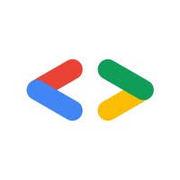
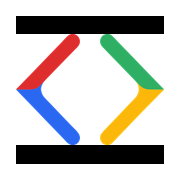
Improve motion, mobile layout, and branding

diff --git a/app/src/styles.css b/app/src/styles.css
@@ -1,31 +1,30 @@
 @layer reset, theme, base, components, utilities;
 @import "tailwindcss" source(none);
 @source "../src";
-@source "../packages/quanta/src";
-@import "@higgsfield/quanta/tailwind.css";
 
 @font-face{font-family:"Space Grotesk";src:url("../packages/quanta/src/css/theme/fonts/space-grotesk/space-grotesk-latin-ext.woff2") format("woff2");font-display:swap}
 @font-face{font-family:"IBM Plex Mono";src:url("../packages/quanta/src/css/theme/fonts/ibm-plex-mono/ibm-plex-mono-latin-ext-400.woff2") format("woff2");font-display:swap}
 
-:root{--paper:#f8f9fa;--ink:#202124;--line:#dadce0;--muted:#6f7378;--blue:#4285f4;--red:#ea4335;--yellow:#fbbc04;--green:#34a853;--gutter:clamp(20px,4.2vw,72px);font-family:"Space Grotesk",Arial,sans-serif;color:var(--ink);background:var(--paper);font-synthesis:none}
+:root{--paper:#f8f9fa;--ink:#202124;--line:#dadce0;--muted:#6f7378;--blue:#4285f4;--red:#ea4335;--yellow:#fbbc04;--green:#34a853;--gutter:clamp(20px,4.2vw,72px);--hero-progress:0;--page-progress:0;font-family:"Space Grotesk",Arial,sans-serif;color:var(--ink);background:var(--paper);font-synthesis:none}
 :focus-visible{outline:2px solid var(--blue);outline-offset:4px}
 *{box-sizing:border-box}html{scroll-behavior:smooth;background:var(--paper);color-scheme:light}body{margin:0;min-width:320px;background:var(--paper);color:var(--ink);overflow-x:hidden}button,a{font:inherit}a{color:inherit;text-decoration:none}img{display:block;max-width:100%}.sr-only{position:absolute;width:1px;height:1px;padding:0;margin:-1px;overflow:hidden;clip:rect(0,0,0,0);white-space:nowrap;border:0}.section-shell{padding:clamp(96px,11vw,180px) var(--gutter)}.section-index{font-family:"IBM Plex Mono",monospace;font-size:11px;letter-spacing:.16em;margin:0 0 28px;text-transform:uppercase;color:var(--muted)}
-.site-header{position:fixed;z-index:30;top:0;left:0;right:0;height:76px;padding:0 var(--gutter);display:flex;align-items:center;justify-content:space-between;border-bottom:1px solid rgba(32,33,36,.12);background:rgba(248,249,250,.88);backdrop-filter:blur(14px)}.brand{display:flex;align-items:center;gap:13px;font-size:14px;line-height:1.08;font-weight:500}.brand img{width:49px;height:49px;object-fit:contain}.brand b{display:block;margin-top:4px;font-weight:650}nav{display:flex;align-items:center;gap:34px;font-size:14px}nav>a{position:relative;padding:8px 0}nav>a:not(.nav-join)::after{content:"";position:absolute;left:0;right:100%;bottom:2px;height:1px;background:var(--ink);transition:right .35s ease}nav>a:hover::after,nav>a:focus-visible::after{right:0}.nav-join{display:flex;gap:28px;border-left:1px solid var(--line);padding-left:28px}.nav-join span{transition:transform .25s ease}.nav-join:hover span{transform:translate(3px,-3px)}.menu-toggle{display:none;border:0;background:none;padding:8px}.menu-toggle span:not(.sr-only){display:block;width:24px;height:1px;background:var(--ink);margin:5px}
+.scroll-progress{position:fixed;z-index:60;top:0;left:0;width:calc(var(--page-progress) * 100%);height:3px;background:var(--blue);transform-origin:left;pointer-events:none}.site-header{position:fixed;z-index:30;top:0;left:0;right:0;height:76px;padding:0 var(--gutter);display:flex;align-items:center;justify-content:space-between;border-bottom:1px solid rgba(32,33,36,.12);background:rgba(248,249,250,.88);backdrop-filter:blur(14px)}.brand{display:flex;align-items:center;gap:13px;font-size:14px;line-height:1.08;font-weight:500}.brand img{width:49px;height:49px;object-fit:contain}.brand b{display:block;margin-top:4px;font-weight:650}nav{display:flex;align-items:center;gap:34px;font-size:14px}nav>a{position:relative;padding:8px 0}nav>a:not(.nav-join)::after{content:"";position:absolute;left:0;right:100%;bottom:2px;height:1px;background:var(--ink);transition:right .35s ease}nav>a:hover::after,nav>a:focus-visible::after{right:0}.nav-join{display:flex;gap:28px;border-left:1px solid var(--line);padding-left:28px}.nav-join span{transition:transform .25s ease}.nav-join:hover span{transform:translate(3px,-3px)}.menu-toggle{display:none;border:0;background:none;padding:8px}.menu-toggle span:not(.sr-only){display:block;width:24px;height:1px;background:var(--ink);margin:5px}
 .hero{position:relative;min-height:100dvh;padding:120px var(--gutter) 55px;display:flex;align-items:flex-end;overflow:hidden;border-bottom:1px solid var(--line)}.hero-grid{position:absolute;inset:76px 0 0 52%;background-image:linear-gradient(var(--line) 1px,transparent 1px),linear-gradient(90deg,var(--line) 1px,transparent 1px);background-size:120px 120px;opacity:.5}.hero-copy{position:relative;z-index:3;width:100%;display:grid;grid-template-columns:minmax(0,1fr) minmax(240px,.34fr);align-items:end;gap:60px}.hero h1{margin:0;font-size:clamp(58px,9.1vw,148px);line-height:.83;letter-spacing:-.075em;font-weight:680;max-width:1100px}.hero h1 span{display:block;animation:hero-in 1s cubic-bezier(.16,1,.3,1) both}.hero h1 span+span{animation-delay:.08s}.hero-note{max-width:320px;padding-bottom:12px}.hero-note p{font-size:clamp(16px,1.3vw,20px);line-height:1.45;margin:0 0 32px}.hero-note a{display:flex;justify-content:space-between;align-items:center;border-top:1px solid var(--ink);padding-top:13px;font-size:14px}.hero-note a span{transition:transform .25s}.hero-note a:hover span{transform:translateY(4px)}
 .corner{position:absolute;z-index:2;width:94px;height:94px;border-style:solid;animation:corner-shift 1.2s cubic-bezier(.16,1,.3,1) both}.corner-blue{left:var(--gutter);top:27%;border-width:18px 0 0 18px;border-color:var(--blue)}.corner-red{right:36%;top:22%;border-width:18px 18px 0 0;border-color:var(--red)}.corner-yellow{left:var(--gutter);bottom:7%;border-width:0 0 18px 18px;border-color:var(--yellow)}.corner-green{right:36%;bottom:7%;border-width:0 18px 18px 0;border-color:var(--green)}.circuit-lines{position:absolute;z-index:1;right:-2%;top:13%;width:49%;height:82%;overflow:visible}.circuit{fill:none;stroke-width:2}.blue-line{stroke:var(--blue)}.red-line{stroke:var(--red)}.yellow-line{stroke:var(--yellow)}.green-line{stroke:var(--green)}.node{fill:var(--paper);stroke-width:3}.blue-stroke{stroke:var(--blue)}.red-stroke{stroke:var(--red)}.yellow-stroke{stroke:var(--yellow)}.green-stroke{stroke:var(--green)}
 .about-section{min-height:100dvh;display:grid;grid-template-columns:.25fr minmax(0,1fr) .25fr;align-items:center;gap:30px;position:relative}.parenthesis{font-size:clamp(240px,38vw,600px);line-height:.5;font-weight:300;text-align:right;transform:scaleX(.55);transform-origin:right;color:#26272a}.parenthesis-right{text-align:left;transform-origin:left}.about-content{text-align:center;max-width:840px;margin:auto}.about-content h2,.events-head h2,.team-intro h2{font-size:clamp(48px,6vw,94px);line-height:.95;letter-spacing:-.06em;margin:0;font-weight:650}.about-lead{max-width:660px;margin:38px auto 74px;font-size:clamp(17px,1.5vw,22px);line-height:1.55}.principles{display:grid;text-align:left;border-top:1px solid var(--line)}.principles article{display:grid;grid-template-columns:48px 1fr 1.5fr;gap:18px;align-items:center;padding:20px 0;border-bottom:1px solid var(--line)}.principles span{font:12px "IBM Plex Mono"}.principles h3{font-size:18px;margin:0}.principles p{font-size:14px;line-height:1.45;margin:0;color:var(--muted)}
-.manifesto{min-height:100dvh;display:grid;grid-template-columns:.8fr 1.2fr;gap:7vw;border-top:1px solid var(--line);background-image:linear-gradient(90deg,transparent calc(100% - 1px),rgba(218,220,224,.5) 0);background-size:12.5% 100%}.manifesto-copy h2{font-size:clamp(62px,8vw,128px);line-height:.84;letter-spacing:-.07em;margin:0}.manifesto-copy h2 span{display:block}.manifesto-copy>p{font-size:18px;line-height:1.55;max-width:460px;margin:50px 0 0}.signal-map{align-self:center}.signal-row{display:grid;grid-template-columns:46px 120px 1fr;align-items:center;gap:18px;min-height:95px;position:relative;border-bottom:1px solid var(--line)}.signal-row>span{font:12px "IBM Plex Mono"}.signal-row strong{font-size:20px}.signal-row p{font-size:14px;color:var(--muted)}.signal-row i{position:absolute;height:3px;width:44%;right:0;bottom:-2px;transition:width .6s ease}.signal-row:hover i{width:80%}.signal-row.blue i{background:var(--blue)}.signal-row.red i{background:var(--red)}.signal-row.yellow i{background:var(--yellow)}.signal-row.green i{background:var(--green)}
+.manifesto{min-height:100dvh;display:grid;grid-template-columns:1.1fr .9fr;gap:6vw;border-top:1px solid var(--line);background-image:linear-gradient(90deg,transparent calc(100% - 1px),rgba(218,220,224,.5) 0);background-size:12.5% 100%}.manifesto-copy h2{font-size:clamp(58px,6.5vw,106px);line-height:1.04;letter-spacing:-.06em;margin:0}.manifesto-copy h2 span{display:block;padding:.03em 0}.manifesto-copy>p{font-size:18px;line-height:1.55;max-width:460px;margin:50px 0 0}.signal-map{align-self:center}.signal-row{display:grid;grid-template-columns:46px 110px 1fr;align-items:center;gap:16px;min-height:95px;position:relative;border-bottom:1px solid var(--line)}.signal-row>span{font:12px "IBM Plex Mono"}.signal-row strong{font-size:20px}.signal-row p{font-size:14px;color:var(--muted)}.signal-row i{position:absolute;height:3px;width:44%;right:0;bottom:-2px;transition:width .6s ease}.signal-row:hover i{width:80%}.signal-row.blue i{background:var(--blue)}.signal-row.red i{background:var(--red)}.signal-row.yellow i{background:var(--yellow)}.signal-row.green i{background:var(--green)}
+@media(min-width:901px){.manifesto-copy h2 span{white-space:nowrap}}
 .events-section{background:#fff;border-top:1px solid var(--line);overflow:hidden}.events-head{display:flex;justify-content:space-between;align-items:end;gap:40px;margin-bottom:70px}.events-head>div:first-child{max-width:760px}.rail-controls{display:flex;gap:8px}.rail-controls button{width:54px;height:54px;border:1px solid var(--ink);background:transparent;cursor:pointer;font-size:24px;transition:.2s}.rail-controls button:hover{background:var(--ink);color:#fff}.events-rail{display:flex;gap:20px;overflow-x:auto;scroll-snap-type:x mandatory;padding-bottom:28px;scrollbar-width:thin}.event-card{flex:0 0 min(470px,82vw);scroll-snap-align:start;border:1px solid var(--line);background:var(--paper)}.event-art{height:330px;position:relative;overflow:hidden;padding:25px}.event-card.blue .event-art{background:var(--blue)}.event-card.red .event-art{background:var(--red)}.event-card.yellow .event-art{background:var(--yellow)}.event-art>span{font:14px "IBM Plex Mono";position:relative;z-index:2}.event-building{position:absolute;right:-8%;bottom:-26%;width:66%;height:84%;background:repeating-linear-gradient(90deg,var(--ink) 0 9%,transparent 9% 17%);transform:skewY(-20deg);opacity:.88}.event-card.red .event-building{width:36%;right:17%;border-radius:50% 50% 0 0;background:var(--ink);clip-path:polygon(43% 0,57% 0,70% 100%,30% 100%)}.event-card.yellow .event-building{width:62%;right:-5%;background:repeating-linear-gradient(0deg,var(--ink) 0 8%,transparent 8% 15%);transform:skewY(20deg)}.event-info{padding:26px 26px 30px}.event-info time{font:12px "IBM Plex Mono"}.event-info h3{font-size:31px;line-height:1.02;letter-spacing:-.035em;margin:18px 0 22px}.event-info p,.event-info>span{font-size:13px;margin:0;color:var(--muted)}.event-info>span{display:block;margin-top:5px}.event-follow{flex:0 0 min(330px,75vw);scroll-snap-align:start;border:1px solid var(--ink);min-height:530px;padding:28px;display:flex;flex-direction:column;justify-content:space-between;font-size:26px;line-height:1.1;transition:.3s}.event-follow b{font-size:56px;font-weight:300;align-self:end}.event-follow:hover{background:var(--ink);color:#fff}
-.team-section{display:grid;grid-template-columns:.8fr 1.2fr;gap:8vw;border-top:1px solid var(--line)}.team-intro{position:sticky;top:120px;align-self:start}.team-intro>p:last-child{font-size:18px;line-height:1.5;max-width:420px;margin:38px 0}.team-grid{display:grid;grid-template-columns:repeat(2,1fr);gap:26px}.team-card:nth-child(2){margin-top:100px}.team-card:nth-child(3){grid-column:1/-1;width:54%;margin-left:auto}.member-visual{aspect-ratio:4/5;background:#e9eaec;position:relative;display:flex;align-items:center;justify-content:center;overflow:hidden;border:1px solid var(--line)}.member-visual::before,.member-visual::after{content:"";position:absolute;width:75%;height:75%;border:1px solid currentColor;transform:rotate(45deg)}.member-visual::after{width:45%;height:45%;transform:rotate(0)}.team-card.blue .member-visual{color:var(--blue)}.team-card.green .member-visual{color:var(--green)}.team-card.red .member-visual{color:var(--red)}.member-visual span{font-size:clamp(48px,7vw,100px);font-weight:650;letter-spacing:-.08em;position:relative;z-index:2}.member-visual i{position:absolute;right:14px;top:14px;font:12px "IBM Plex Mono"}.team-card h3{font-size:22px;margin:18px 0 5px}.team-card p{margin:0;color:var(--muted);font-size:14px}
+.team-section{display:grid;grid-template-columns:.58fr 1.42fr;gap:6vw;border-top:1px solid var(--line)}.team-intro{position:sticky;top:120px;align-self:start}.team-intro>p:last-child{font-size:18px;line-height:1.5;max-width:420px;margin:38px 0}.team-grid{display:grid;grid-template-columns:repeat(3,minmax(0,1fr));gap:30px 18px}.team-card{min-width:0}.member-visual{aspect-ratio:1/1;background:#e9eaec;position:relative;display:flex;align-items:center;justify-content:center;overflow:hidden;border:1px solid var(--line)}.member-visual::before,.member-visual::after{content:"";position:absolute;width:75%;height:75%;border:1px solid currentColor;transform:rotate(45deg)}.member-visual::after{width:45%;height:45%;transform:rotate(0)}.team-card.blue .member-visual{color:var(--blue)}.team-card.green .member-visual{color:var(--green)}.team-card.red .member-visual{color:var(--red)}.team-card.yellow .member-visual{color:#d99e00}.member-visual span{font-size:clamp(30px,4vw,66px);font-weight:650;letter-spacing:-.08em;position:relative;z-index:2}.member-visual i{position:absolute;right:12px;top:12px;font:11px "IBM Plex Mono"}.team-card h3{font-size:18px;line-height:1.15;margin:14px 0 5px}.team-card p{margin:0;color:var(--muted);font-size:13px;line-height:1.35}
 .join-section{min-height:82dvh;position:relative;display:flex;align-items:center;justify-content:center;text-align:center;overflow:hidden;border-top:1px solid var(--line);background:#fff}.join-inner{position:relative;z-index:2;padding:120px var(--gutter);max-width:1050px}.join-inner h2{font-size:clamp(56px,8.5vw,132px);line-height:.88;letter-spacing:-.07em;margin:0}.join-inner>p{font-size:18px;line-height:1.5;max-width:560px;margin:42px auto}.join-link{margin:auto;max-width:420px;border-bottom:2px solid var(--ink);display:flex;align-items:center;justify-content:space-between;padding:15px 0;font-size:24px;font-weight:600}.join-link b{font-size:35px;font-weight:300;transition:transform .3s}.join-link:hover b{transform:translate(7px,-7px)}.join-wire{position:absolute;height:4px;width:34%;background:currentColor}.join-wire::after{content:"";position:absolute;right:-10px;top:-8px;width:16px;height:16px;border:3px solid currentColor;border-radius:50%;background:#fff}.wire-a{color:var(--blue);left:0;top:17%}.wire-b{color:var(--red);left:-5%;top:70%;width:28%}.wire-c{color:var(--green);right:0;top:14%;transform:rotate(180deg)}.wire-d{color:var(--yellow);right:-4%;bottom:18%;width:28%;transform:rotate(180deg)}
 footer{background:var(--ink);color:#fff;padding:70px var(--gutter) 0}.footer-main{display:flex;justify-content:space-between;gap:50px;padding-bottom:68px}.footer-links{display:grid;grid-template-columns:repeat(2,minmax(140px,1fr));gap:18px 70px}.footer-links a{font-size:15px}.footer-links a:hover{text-decoration:underline}.footer-bottom{border-top:1px solid rgba(255,255,255,.25);padding:24px 0 34px;display:flex;justify-content:space-between;font:11px "IBM Plex Mono";color:#b6b9bd}.color-rule{display:grid;grid-template-columns:repeat(4,1fr);height:6px;margin:0 calc(var(--gutter) * -1)}.color-rule i:nth-child(1){background:var(--blue)}.color-rule i:nth-child(2){background:var(--red)}.color-rule i:nth-child(3){background:var(--yellow)}.color-rule i:nth-child(4){background:var(--green)}
 .error-page{min-height:100dvh;display:grid;place-content:center;text-align:center}.error-page h1{font-size:120px;margin:0}
 @keyframes hero-in{from{transform:translateY(55px)}to{transform:translateY(0)}}@keyframes corner-shift{from{transform:scale(.6) rotate(-8deg)}to{transform:scale(1) rotate(0)}}
-@supports(animation-timeline:scroll()){.corner-blue,.corner-yellow{animation:corner-left linear both;animation-timeline:scroll(root);animation-range:0 32vh}.corner-red,.corner-green{animation:corner-right linear both;animation-timeline:scroll(root);animation-range:0 32vh}.circuit-lines{animation:circuit-drift linear both;animation-timeline:scroll(root);animation-range:0 90vh}@keyframes corner-left{to{transform:translateX(-60px) scale(.75)}}@keyframes corner-right{to{transform:translateX(60px) scale(.75)}}@keyframes circuit-drift{to{transform:translateY(100px) scale(1.08)}}}
-@media(max-width:900px){.site-header{height:68px}.site-header .brand span{display:none}.brand img{width:45px;height:45px}.menu-toggle{display:block}nav{position:absolute;top:68px;left:0;right:0;background:var(--paper);border-bottom:1px solid var(--line);padding:24px var(--gutter);display:none;flex-direction:column;align-items:flex-start;gap:15px}nav.nav-open{display:flex}.nav-join{border-left:0;padding-left:0}.hero{padding-top:108px;align-items:center}.hero-grid{left:0;opacity:.35}.hero-copy{display:block}.hero h1{font-size:clamp(56px,15vw,104px);line-height:.88}.hero-note{margin:48px 0 0 auto}.corner{width:56px;height:56px}.corner-blue,.corner-yellow{left:var(--gutter)}.corner-red,.corner-green{right:var(--gutter)}.corner-blue,.corner-red{top:19%}.corner-yellow,.corner-green{bottom:4%}.corner-blue{border-width:11px 0 0 11px}.corner-red{border-width:11px 11px 0 0}.corner-yellow{border-width:0 0 11px 11px}.corner-green{border-width:0 11px 11px 0}.circuit-lines{width:80%;right:-28%;opacity:.65}.about-section{grid-template-columns:45px 1fr 45px;gap:0}.parenthesis{font-size:260px}.about-content h2,.events-head h2,.team-intro h2{font-size:clamp(46px,11vw,76px)}.principles article{grid-template-columns:38px 1fr}.principles article p{grid-column:2}.manifesto,.team-section{grid-template-columns:1fr;gap:70px}.manifesto-copy h2{font-size:clamp(60px,15vw,100px)}.team-intro{position:static}.events-head{align-items:flex-start;flex-direction:column}.team-card:nth-child(2){margin-top:65px}.join-inner h2{font-size:clamp(52px,14vw,96px)}.join-wire{width:25%}}
-@media(max-width:560px){.section-shell{padding:88px 20px}.hero{padding-left:20px;padding-right:20px}.hero h1{font-size:clamp(52px,17vw,84px)}.hero-note{max-width:250px}.about-section{grid-template-columns:18px 1fr 18px}.parenthesis{font-size:180px}.about-lead{margin-bottom:50px}.principles article{padding:22px 0}.signal-row{grid-template-columns:34px 82px 1fr;gap:9px}.signal-row strong{font-size:17px}.signal-row p{font-size:12px}.rail-controls{display:none}.event-art{height:270px}.team-grid{display:block}.team-card,.team-card:nth-child(2),.team-card:nth-child(3){width:100%;margin:0 0 38px}.member-visual{aspect-ratio:1.1/1}.join-section{min-height:75dvh}.join-link{font-size:20px}.footer-main,.footer-bottom{flex-direction:column}.footer-links{grid-template-columns:1fr 1fr;gap:16px 40px}}
-@media(prefers-reduced-motion:reduce){html{scroll-behavior:auto}*,*::before,*::after{animation-duration:.01ms!important;animation-iteration-count:1!important;transition-duration:.01ms!important}}
-.hero-visual{position:absolute;z-index:0;right:var(--gutter);top:17%;width:39%;height:42%;margin:0;overflow:hidden;border:1px solid var(--line)}.hero-visual img{width:100%;height:100%;object-fit:cover}
+.js-motion [data-reveal]{opacity:0;filter:blur(7px);transition:opacity .8s cubic-bezier(.16,1,.3,1),transform .9s cubic-bezier(.16,1,.3,1),filter .8s ease;transition-delay:var(--delay,0ms);will-change:transform,opacity}.js-motion [data-reveal="up"]{transform:translate3d(0,54px,0)}.js-motion [data-reveal="left"]{transform:translate3d(-54px,0,0)}.js-motion [data-reveal="right"]{transform:translate3d(54px,0,0)}.js-motion [data-reveal].is-visible{opacity:1;filter:blur(0);transform:translate3d(0,0,0)}
+@media(max-width:900px){.site-header{height:68px}.site-header .brand span{display:none}.brand img{width:45px;height:45px}.menu-toggle{display:block}nav{position:absolute;top:68px;left:0;right:0;background:var(--paper);border-bottom:1px solid var(--line);padding:24px var(--gutter);display:none;flex-direction:column;align-items:flex-start;gap:15px}nav.nav-open{display:flex}.nav-join{border-left:0;padding-left:0}.hero{padding-top:108px;align-items:center}.hero-grid{left:0;opacity:.35}.hero-copy{display:block}.hero h1{font-size:clamp(56px,15vw,104px);line-height:.92}.hero-note{margin:48px 0 0 auto}.corner{width:56px;height:56px}.corner-blue,.corner-yellow{left:var(--gutter)}.corner-red,.corner-green{right:var(--gutter)}.corner-blue,.corner-red{top:19%}.corner-yellow,.corner-green{bottom:4%}.corner-blue{border-width:11px 0 0 11px}.corner-red{border-width:11px 11px 0 0}.corner-yellow{border-width:0 0 11px 11px}.corner-green{border-width:0 11px 11px 0}.circuit-lines{width:80%;right:-28%;opacity:.65}.about-section{grid-template-columns:45px 1fr 45px;gap:0}.parenthesis{font-size:260px}.about-content h2,.events-head h2,.team-intro h2{font-size:clamp(46px,11vw,76px)}.principles article{grid-template-columns:38px 1fr}.principles article p{grid-column:2}.manifesto,.team-section{grid-template-columns:1fr;gap:70px}.manifesto-copy h2{font-size:clamp(60px,15vw,100px);line-height:1.04}.team-intro{position:static}.team-grid{grid-template-columns:repeat(2,minmax(0,1fr))}.events-head{align-items:flex-start;flex-direction:column}.join-inner h2{font-size:clamp(52px,14vw,96px)}.join-wire{width:25%}}
+@media(max-width:560px){.section-shell{padding:78px 20px}.hero{min-height:92dvh;padding:92px 20px 42px;align-items:flex-end}.hero h1{font-size:clamp(48px,16.2vw,72px);line-height:.94;letter-spacing:-.065em}.hero-note{max-width:none;margin:32px 0 0}.hero-note p{margin-bottom:22px}.about-section{grid-template-columns:12px 1fr 12px}.parenthesis{font-size:150px;opacity:.18}.about-lead{margin:28px auto 44px}.principles article{padding:20px 0}.manifesto{min-height:auto;gap:52px}.manifesto-copy h2{font-size:clamp(48px,14vw,74px);line-height:1.06;letter-spacing:-.06em}.manifesto-copy h2 span{padding:.05em 0}.manifesto-copy>p{margin-top:34px}.signal-row{grid-template-columns:30px 72px 1fr;gap:8px;min-height:82px}.signal-row strong{font-size:16px}.signal-row p{font-size:11px;line-height:1.35}.events-head{margin-bottom:42px}.rail-controls{display:none}.events-rail{margin-right:-20px;padding-right:20px}.event-card{flex-basis:84vw}.event-art{height:230px}.event-info{padding:22px}.event-info h3{font-size:26px}.team-section{gap:40px}.team-grid{display:block;border-top:1px solid var(--line)}.team-card{display:grid;grid-template-columns:58px minmax(0,1fr);grid-template-rows:auto auto;column-gap:15px;min-height:82px;padding:12px 0;border-bottom:1px solid var(--line)}.member-visual{grid-row:1/3;width:58px;height:58px;aspect-ratio:1}.member-visual::before,.member-visual::after{display:none}.member-visual span{font-size:18px;letter-spacing:-.04em}.member-visual i{display:none}.team-card h3{align-self:end;font-size:16px;margin:0 0 3px}.team-card p{align-self:start;font-size:12px}.join-section{min-height:75dvh}.join-inner{padding:96px 20px}.join-inner h2{font-size:clamp(47px,13.5vw,72px);line-height:.98}.join-link{font-size:20px}.footer-main,.footer-bottom{flex-direction:column}.footer-links{grid-template-columns:1fr 1fr;gap:16px 40px}}
+@media(prefers-reduced-motion:reduce){html{scroll-behavior:auto}*,*::before,*::after{animation-duration:.01ms!important;animation-iteration-count:1!important;transition-duration:.01ms!important}.js-motion [data-reveal]{opacity:1!important;filter:none!important;transform:none!important}}
+.hero-visual{position:absolute;z-index:0;right:var(--gutter);top:17%;width:39%;height:42%;margin:0;overflow:hidden;border:1px solid var(--line);transform:translate3d(0,calc(var(--hero-progress) * -38px),0)}.hero-visual img{width:100%;height:100%;object-fit:cover;transform:scale(calc(1 + var(--hero-progress) * .045));transition:transform .08s linear}.circuit-lines{transform:translate3d(0,calc(var(--hero-progress) * 82px),0)}
 .about-section{background-image:url("/assets/paper.webp");background-size:cover;background-position:center}
 .principles span{width:42px;height:42px;background-image:url("/assets/icons.webp");background-size:300% 200%;text-indent:-9999px;overflow:hidden}.principles article:nth-child(1) span{background-position:0 0}.principles article:nth-child(2) span{background-position:50% 0}.principles article:nth-child(3) span{background-position:100% 0}
 .event-art{background-image:url("/assets/event-sheet.webp")!important;background-size:300% 100%!important}.event-card.blue .event-art{background-position:0 0}.event-card.red .event-art{background-position:50% 0}.event-card.yellow .event-art{background-position:100% 0}.event-building{display:none}

diff --git a/app/src/routes/index.tsx b/app/src/routes/index.tsx
@@ -1,5 +1,5 @@
 import { createFileRoute } from "@tanstack/react-router";
-import { useEffect, useRef, useState } from "react";
+import { useEffect, useRef, useState, type CSSProperties } from "react";
 
 export const Route = createFileRoute("/")({ component: LandingPage });
 
@@ -10,8 +10,15 @@ const events = [
 ];
 const team = [
   { initials: "EY", name: "Ezel Yazıcı", role: "Kampüs Elçisi", color: "blue" },
+  { initials: "MA", name: "Mehmet Ali İlhan", role: "Eş Lider", color: "red" },
   { initials: "YA", name: "Yusuf Türker Albayrak", role: "Teknik Koordinatör", color: "green" },
-  { initials: "CT", name: "Core Team", role: "Organizasyon ve topluluk", color: "red" },
+  { initials: "HA", name: "Hilal Akdağ", role: "Sosyal Medya ve Tasarım Lideri", color: "yellow" },
+  { initials: "EG", name: "Emir Güzel", role: "Partnerlik Lideri", color: "blue" },
+  { initials: "CC", name: "Ceyda Cesur", role: "Organizatör", color: "red" },
+  { initials: "FO", name: "Fatih Tuğra Odabaş", role: "Organizasyon Koordinasyonu", color: "green" },
+  { initials: "YK", name: "Yakup Kırdudu", role: "Ekip Üyesi", color: "yellow" },
+  { initials: "HF", name: "Haya Firas", role: "Sosyal Medya ve Tasarım", color: "blue" },
+  { initials: "KA", name: "Karya Elif Aksu", role: "Core Team", color: "red" },
 ];
 
 function BrandMark({ compact = false }: { compact?: boolean }) {
@@ -36,9 +43,48 @@ function LandingPage() {
   const railRef = useRef<HTMLDivElement>(null);
   const [menuOpen, setMenuOpen] = useState(false);
   useEffect(() => { const close = () => setMenuOpen(false); window.addEventListener("resize", close); return () => window.removeEventListener("resize", close); }, []);
+  useEffect(() => {
+    const root = document.documentElement;
+    root.classList.add("js-motion");
+    const reduceMotion = window.matchMedia("(prefers-reduced-motion: reduce)").matches;
+    const revealItems = Array.from(document.querySelectorAll<HTMLElement>("[data-reveal]"));
+    if (reduceMotion) {
+      revealItems.forEach(item => item.classList.add("is-visible"));
+      return () => root.classList.remove("js-motion");
+    }
+
+    const observer = new IntersectionObserver(entries => {
+      entries.forEach(entry => {
+        if (entry.isIntersecting) {
+          entry.target.classList.add("is-visible");
+          observer.unobserve(entry.target);
+        }
+      });
+    }, { threshold: 0.14, rootMargin: "0px 0px -8% 0px" });
+    revealItems.forEach(item => observer.observe(item));
+
+    let frame = 0;
+    const updateScroll = () => {
+      cancelAnimationFrame(frame);
+      frame = requestAnimationFrame(() => {
+        const heroProgress = Math.min(window.scrollY / Math.max(window.innerHeight, 1), 1);
+        const pageProgress = window.scrollY / Math.max(document.documentElement.scrollHeight - window.innerHeight, 1);
+        root.style.setProperty("--hero-progress", heroProgress.toFixed(3));
+        root.style.setProperty("--page-progress", Math.min(pageProgress, 1).toFixed(3));
+      });
+    };
+    updateScroll();
+    window.addEventListener("scroll", updateScroll, { passive: true });
+    return () => {
+      observer.disconnect();
+      window.removeEventListener("scroll", updateScroll);
+      cancelAnimationFrame(frame);
+      root.classList.remove("js-motion");
+    };
+  }, []);
   const moveRail = (direction: number) => railRef.current?.scrollBy({ left: direction * 420, behavior: "smooth" });
 
-  return <main id="top">
+  return <main id="top"><div className="scroll-progress" aria-hidden="true" />
     <header className="site-header"><BrandMark />
       <button className="menu-toggle" type="button" aria-expanded={menuOpen} aria-controls="site-nav" onClick={() => setMenuOpen(open => !open)}>
         <span /><span /><span /><span className="sr-only">Menüyü aç</span>
@@ -60,31 +106,31 @@ function LandingPage() {
 
     <section className="about-section section-shell" id="about" aria-labelledby="about-title">
       <div className="parenthesis" aria-hidden="true">(</div><div className="about-content"><p className="section-index">GDG OSTIM TECH</p>
-        <h2 id="about-title">Merakın buluştuğu yer.</h2>
-        <p className="about-lead">Teknolojiye ilgi duyan insanları bir araya getiriyor, deneyimi açıkça paylaşıyor ve fikirleri birlikte çalışan projelere dönüştürüyoruz.</p>
+        <h2 id="about-title" data-reveal="up">Merakın buluştuğu yer.</h2>
+        <p className="about-lead" data-reveal="up">Teknolojiye ilgi duyan insanları bir araya getiriyor, deneyimi açıkça paylaşıyor ve fikirleri birlikte çalışan projelere dönüştürüyoruz.</p>
         <div className="principles">
-          <article><span>01</span><h3>Birlikte öğren</h3><p>Workshop, konuşma ve çalışma gruplarıyla bilgiyi çoğalt.</p></article>
-          <article><span>02</span><h3>Açıkça paylaş</h3><p>Deneyimini topluluğa aktar, yeni bakış açılarıyla karşılaş.</p></article>
-          <article><span>03</span><h3>Birlikte üret</h3><p>Fikrini ekiple buluştur, çalışan bir ürüne dönüştür.</p></article>
+          <article data-reveal="left"><span>01</span><h3>Birlikte öğren</h3><p>Workshop, konuşma ve çalışma gruplarıyla bilgiyi çoğalt.</p></article>
+          <article data-reveal="right"><span>02</span><h3>Açıkça paylaş</h3><p>Deneyimini topluluğa aktar, yeni bakış açılarıyla karşılaş.</p></article>
+          <article data-reveal="left"><span>03</span><h3>Birlikte üret</h3><p>Fikrini ekiple buluştur, çalışan bir ürüne dönüştür.</p></article>
         </div>
       </div><div className="parenthesis parenthesis-right" aria-hidden="true">)</div>
     </section>
 
     <section className="manifesto section-shell" aria-labelledby="manifesto-title">
-      <div className="manifesto-copy"><h2 id="manifesto-title"><span>Öğren.</span><span>Paylaş.</span><span>Birlikte üret.</span></h2><p>Farklı disiplinlerden gelen insanların aynı masa etrafında buluştuğu açık bir üretim kültürü.</p></div>
+      <div className="manifesto-copy"><h2 id="manifesto-title"><span data-reveal="left">Öğren.</span><span data-reveal="right">Paylaş.</span><span data-reveal="left">Birlikte üret.</span></h2><p data-reveal="up">Farklı disiplinlerden gelen insanların aynı masa etrafında buluştuğu açık bir üretim kültürü.</p></div>
       <div className="signal-map" aria-label="Topluluk yaklaşımı">
         {[["Öğren","Bilgiyi erişilebilir kıl","blue"],["Paylaş","Deneyimi dolaşıma sok","red"],["Üret","Fikirleri birlikte dene","yellow"],["Etki","Yerelden geleceğe bağlan","green"]].map(([title,text,color],index) =>
-          <div className={`signal-row ${color}`} key={title}><span>0{index+1}</span><strong>{title}</strong><p>{text}</p><i aria-hidden="true" /></div>
+          <div className={`signal-row ${color}`} data-reveal="right" style={{ "--delay": `${index * 85}ms` } as CSSProperties} key={title}><span>0{index+1}</span><strong>{title}</strong><p>{text}</p><i aria-hidden="true" /></div>
         )}
       </div>
     </section>
 
     <section className="events-section section-shell" id="events" aria-labelledby="events-title">
-      <div className="events-head"><div><p className="section-index">SON ETKİNLİKLER</p><h2 id="events-title">Birlikte öğrenmenin takvimi.</h2></div>
+      <div className="events-head" data-reveal="up"><div><p className="section-index">SON ETKİNLİKLER</p><h2 id="events-title">Birlikte öğrenmenin takvimi.</h2></div>
         <div className="rail-controls" aria-label="Etkinlik kartlarını kaydır"><button type="button" onClick={() => moveRail(-1)} aria-label="Önceki etkinlik">←</button><button type="button" onClick={() => moveRail(1)} aria-label="Sonraki etkinlik">→</button></div>
       </div>
       <div className="events-rail" ref={railRef}>
-        {events.map((event,index) => <article className={`event-card ${event.color}`} key={event.title}>
+        {events.map((event,index) => <article className={`event-card ${event.color}`} data-reveal="up" style={{ "--delay": `${index * 110}ms` } as CSSProperties} key={event.title}>
           <div className="event-art"><span>{String(index+1).padStart(2,"0")}</span><div className="event-building" /></div>
           <div className="event-info"><time>{event.date}</time><h3>{event.title}</h3><p>{event.type}</p><span>{event.place}</span></div>
         </article>)}
@@ -93,14 +139,14 @@ function LandingPage() {
     </section>
 
     <section className="team-section section-shell" id="team" aria-labelledby="team-title">
-      <div className="team-intro"><p className="section-index">EKİP</p><h2 id="team-title">Bu topluluğu birlikte büyütüyoruz.</h2><p>Etkinlikten içeriğe, her buluşmanın arkasında gönüllü bir ekip var.</p></div>
-      <div className="team-grid">{team.map((member,index) => <article className={`team-card ${member.color}`} key={member.name}>
+      <div className="team-intro" data-reveal="up"><p className="section-index">EKİP / 10</p><h2 id="team-title">Bu topluluğu birlikte büyütüyoruz.</h2><p>Etkinlikten içeriğe, her buluşmanın arkasında gönüllü bir ekip var.</p></div>
+      <div className="team-grid">{team.map((member,index) => <article className={`team-card ${member.color}`} data-reveal="up" style={{ "--delay": `${(index % 3) * 70}ms` } as CSSProperties} key={member.name}>
         <div className="member-visual"><span>{member.initials}</span><i>{String(index+1).padStart(2,"0")}</i></div><h3>{member.name}</h3><p>{member.role}</p>
       </article>)}</div>
     </section>
 
     <section className="join-section" id="join" aria-labelledby="join-title"><div className="join-wire wire-a" /><div className="join-wire wire-b" /><div className="join-wire wire-c" /><div className="join-wire wire-d" />
-      <div className="join-inner"><h2 id="join-title">Sıradaki fikre birlikte başlayalım.</h2><p>Yeni insanlarla tanış, öğrendiklerini paylaş ve üretim ekibine katıl.</p>
+      <div className="join-inner"><h2 id="join-title" data-reveal="up">Sıradaki fikre birlikte başlayalım.</h2><p data-reveal="up">Yeni insanlarla tanış, öğrendiklerini paylaş ve üretim ekibine katıl.</p>
         <a className="join-link" href="https://tr.linkedin.com/company/ostimtech-gdsc" target="_blank" rel="noreferrer"><span>Topluluğa katıl</span><b aria-hidden="true">↗</b></a>
       </div>
     </section>
